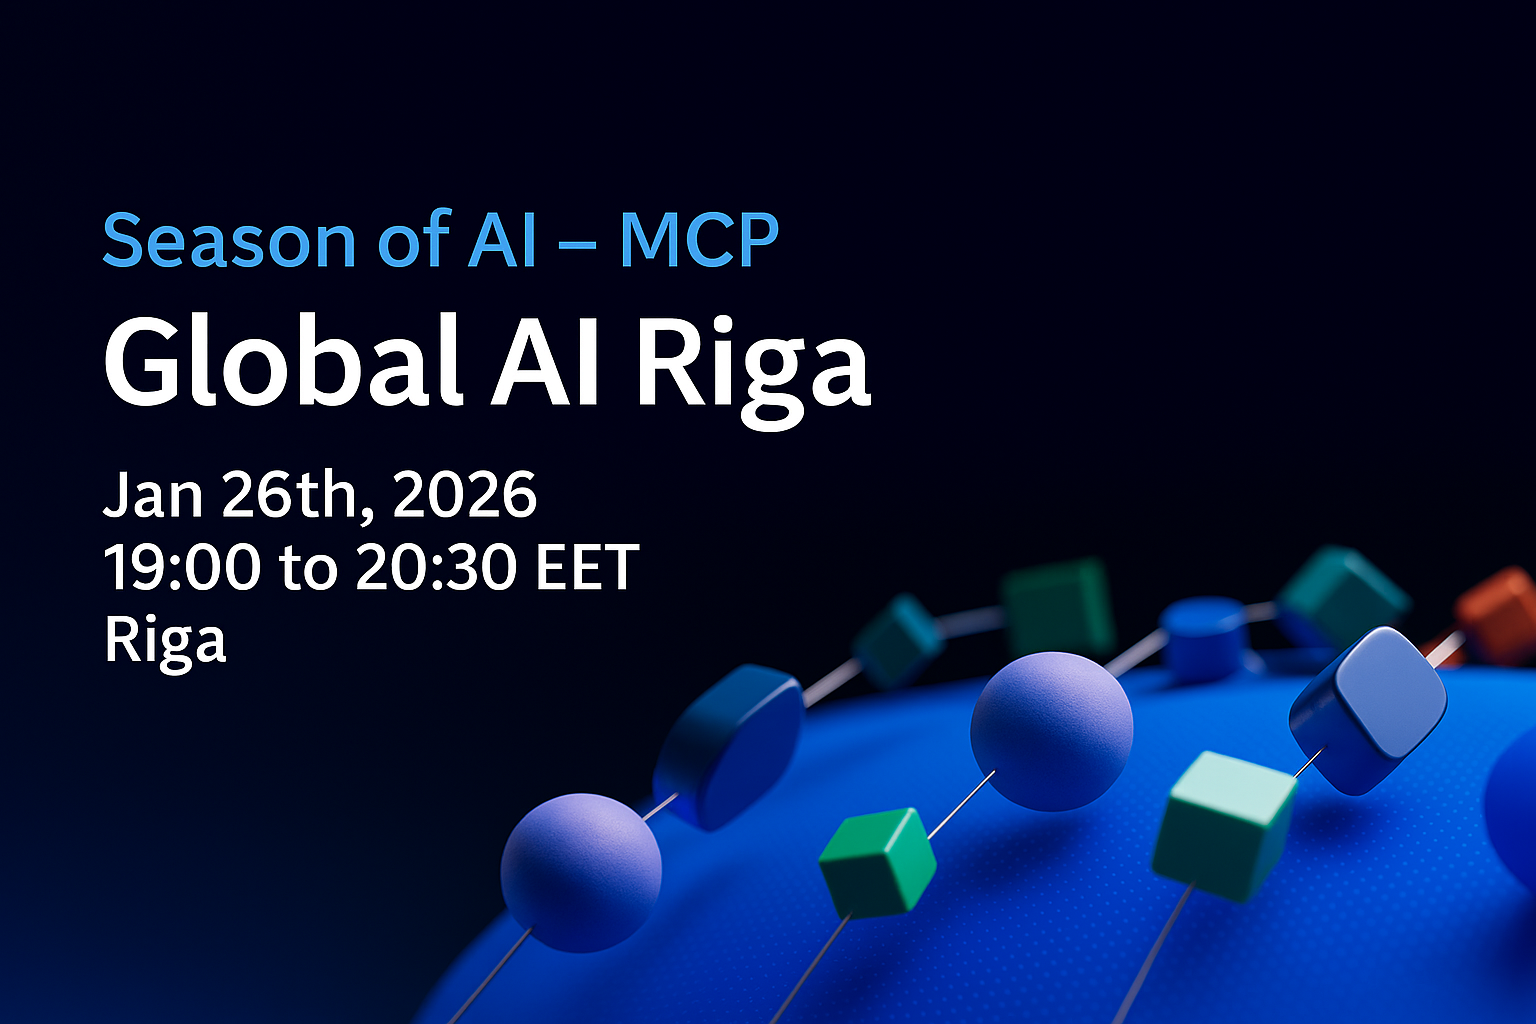
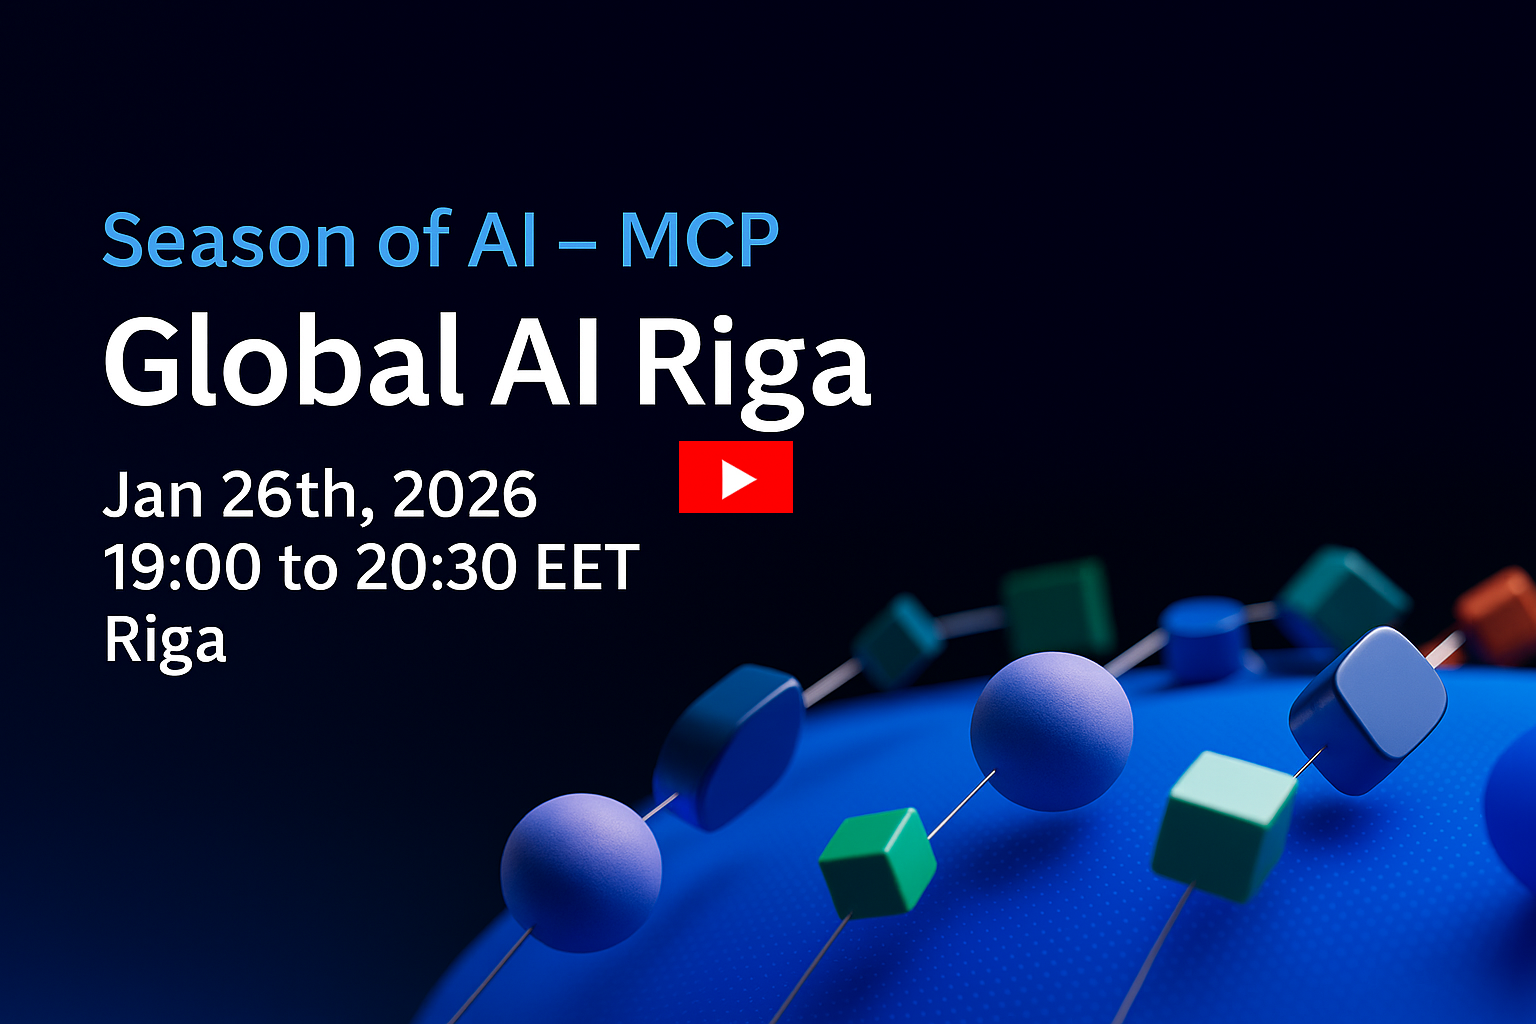
Update Season of AI - MCP conference details with new YouTube link and updated image

Changed region(s): [[0.4375, 0.4062, 0.5312, 0.5]]

diff --git a/_conferences/Season-of-AI-MCP-Riga.md b/_conferences/Season-of-AI-MCP-Riga.md
@@ -6,7 +6,7 @@ description: >
   Season of AI - MCP online event is a focused introduction to the Model Context Protocol (MCP) — an open protocol that enables AI systems to securely and consistently interact with data sources and tools.
   In this session, we’ll explore what MCP is, how it works, and how you can use it in real-world scenarios.
 
-date: 23 January 2026
+date: 26 January 2026
 image: 
   path: /assets/img/conferences/Season-of-AI-MCP-Riga.png
   srcset: 
@@ -14,8 +14,8 @@ image:
     960w: /assets/img/conferences/Season-of-AI-MCP-Riga.png
     480w: /assets/img/conferences/Season-of-AI-MCP-Riga.png
 links:
-  - title: RSVP here to secure your spot
-    url: https://www.meetup.com/global-ai-riga/events/312527818
+  - title: Youtube session link
+    url: https://youtu.be/FcAAfvh4ixU
 accent_color: '#4fb1ba'
 accent_image:
   background: '#193747'
